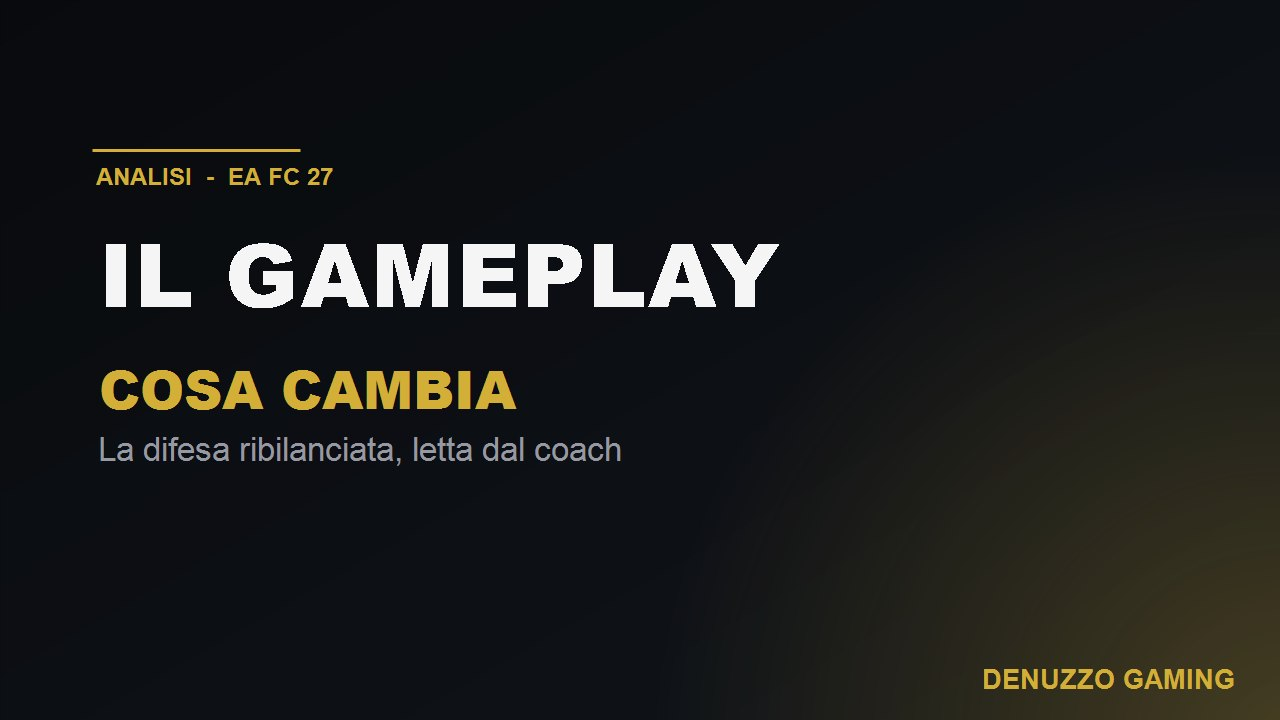
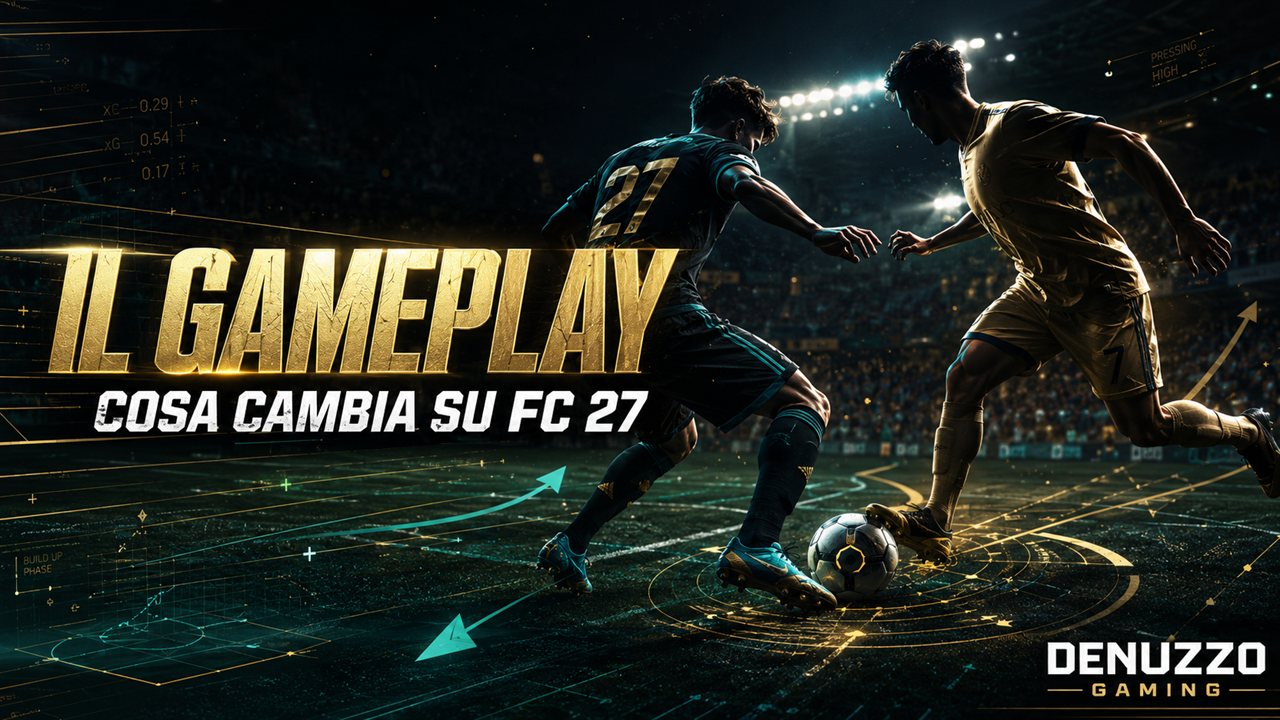
Add FC27 pricing opinion article + swap gameplay hero with branded art (IT/EN)

diff --git a/src/content/articles.ts b/src/content/articles.ts
@@ -30,6 +30,113 @@ export type Article = {
 
 export const articles: Article[] = [
   {
+    slug: "ea-fc-27-costa-troppo-prezzo-verita",
+    title: "EA FC 27 costa troppo? La verità sul prezzo e cosa NON comprare",
+    description:
+      "EA FC 27 costa troppo? Standard, Ultimate e Ultimate+ a confronto, i FC Points spiegati senza giri di parole e il consiglio onesto del coach su cosa comprare davvero.",
+    category: "Opinione",
+    date: "2026-07-25",
+    dateLabel: "25 Luglio 2026",
+    readingTime: "4 min",
+    badge: "OPINIONE",
+    heroImage: "/img/articles/ea-fc-27-costa-troppo-prezzo-verita-hero.jpg",
+    heroAlt:
+      "EA FC 27 costa troppo? L'opinione del coach Fabio Denuzzo su edizioni, prezzo e FC Points",
+    excerpt:
+      "Standard, Ultimate o Ultimate+? Ti dico cosa paghi davvero su EA FC 27, perché i FC Points sono la parte discutibile e cosa NON comprare. Da coach, non da venditore.",
+    body: `Parliamoci chiaro. Ogni anno esce il gioco nuovo, ogni anno si parla di prezzo, e ogni anno c'è chi ti spinge a comprare l'edizione più cara. Io faccio il coach, non il venditore: ti dico cosa paghi davvero su EA FC 27 e cosa, secondo me, non vale i tuoi soldi.
+
+## Quanto costa (le cifre)
+
+- **Standard:** intorno ai 70-80€.
+- **Ultimate:** intorno ai 100€.
+- **Ultimate+** (la nuova, con Mbappé e Bellingham): la più cara, in vendita solo fino al 31 agosto.
+
+I prezzi esatti possono cambiare per piattaforma e regione, ma l'ordine di grandezza è questo.
+
+## Il gioco base è caro, ma di mercato
+
+70-80€ è ormai il prezzo dei giochi AAA. Caro, sì, ma è lo standard del settore. Se giochi tutto l'anno, il costo per ora di divertimento è bassissimo. Fin qui niente di scandaloso: paghi un gioco, giochi un gioco.
+
+## Il problema vero: cosa paghi nell'Ultimate
+
+Quando sali di edizione, l'extra è fatto soprattutto di **FC Points**, cioè crediti per aprire pacchetti. E qui devo essere onesto con te:
+
+- **I pacchetti sono fortuna.** Non stai comprando giocatori, stai comprando la possibilità di trovarli.
+- L'unico valore concreto e **garantito** del sovrapprezzo è l'**early access** di 7-8 giorni. Punto.
+- Il resto (Premium Pass, icon pack) è contorno che ripaghi solo se giochi tantissimo.
+
+Detto senza giri: nell'Ultimate paghi soprattutto per **giocarti la fortuna dei pacchetti**. Questa è la parte del prezzo che trovo davvero discutibile.
+
+## Il costo che nessuno nomina: l'azzeramento annuale
+
+C'è un costo nascosto in tutto questo: è un gioco **annuale**. Paghi pieno ogni settembre e a settembre riparti da zero. La squadra che costruisci quest'anno non te la porti dietro. Su questo, chi dice "troppo" ha ragione.
+
+## Cosa consiglio io (senza fronzoli)
+
+- **Standard: per quasi tutti.** Se non spendi in pacchetti tutto l'anno, è la scelta giusta.
+- **Ultimate: solo se l'early access ti serve davvero** (competitivo serio, trading iniziale). In quel caso vale l'extra, ma per la settimana di anticipo, non per i pacchetti.
+- **Ultimate+: solo se sei uno che spende comunque parecchio** durante l'anno. Per tutti gli altri sono soldi buttati.
+- E soprattutto: **non farti trascinare dall'hype pre-lancio.** Copertine e trailer emozionano, ma non ti fanno vincere le partite.
+
+## In sintesi
+
+EA FC 27 non è una truffa, ma il modo in cui sono costruite le edizioni costose ti spinge a spendere sui pacchetti, e quello sì lo trovo esagerato. Il mio consiglio da coach: **paga il gioco, non la fortuna.** Tieni i crediti, allena i fondamentali, e a settembre parti avanti a chi ha svuotato il portafoglio.
+
+Per i dettagli edizione per edizione: [quale edizione di FC 27 comprare](/newsletter/conviene-comprare-ea-fc-27-edizioni-prezzi). E per arrivare pronto: [come prepararti a FC 27](/newsletter/come-prepararti-a-ea-fc-27).`,
+    en: {
+      title: "Is EA FC 27 Too Expensive? The Truth About the Price and What NOT to Buy",
+      description:
+        "Is EA FC 27 too expensive? Standard, Ultimate and Ultimate+ compared, FC Points explained without spin, and the coach's honest advice on what to actually buy.",
+      category: "Opinion",
+      dateLabel: "July 25, 2026",
+      heroAlt:
+        "Is EA FC 27 too expensive? Coach Fabio Denuzzo's take on editions, price and FC Points",
+      excerpt:
+        "Standard, Ultimate or Ultimate+? I tell you what you actually pay for on EA FC 27, why FC Points are the questionable part, and what NOT to buy. As a coach, not a seller.",
+      body: `Let us be clear. Every year the new game drops, every year people argue about the price, and every year someone pushes you to buy the most expensive edition. I am a coach, not a seller: I will tell you what you actually pay for on EA FC 27 and what, in my view, is not worth your money.
+
+## How much it costs (the numbers)
+
+- **Standard:** around 70-80€.
+- **Ultimate:** around 100€.
+- **Ultimate+** (the new one, with Mbappé and Bellingham): the priciest, on sale only until August 31.
+
+Exact prices can change by platform and region, but this is the ballpark.
+
+## The base game is pricey, but market rate
+
+70-80€ is now the standard AAA game price. Expensive, yes, but it is the industry norm. If you play all year, the cost per hour of fun is tiny. Nothing scandalous here: you pay for a game, you play a game.
+
+## The real issue: what you pay for in Ultimate
+
+When you move up an edition, the extra is mostly **FC Points**, meaning currency to open packs. And here I have to be honest with you:
+
+- **Packs are luck.** You are not buying players, you are buying the chance to find them.
+- The only concrete, **guaranteed** value of the premium is the **early access** of 7-8 days. That is it.
+- The rest (Premium Pass, icon pack) is a side dish you only recoup if you play a huge amount.
+
+Bluntly: in Ultimate you mostly pay to **gamble on pack luck**. That is the part of the price I find genuinely questionable.
+
+## The cost nobody mentions: the yearly reset
+
+There is a hidden cost in all this: it is an **annual** game. You pay full price every September and every September you start from zero. The squad you build this year does not carry over. On this, those who say "too much" have a point.
+
+## What I recommend (no fluff)
+
+- **Standard: for almost everyone.** If you do not spend on packs all year, it is the right pick.
+- **Ultimate: only if you genuinely need the early access** (serious competitive, early trading). Then it is worth the extra, but for the week head start, not for the packs.
+- **Ultimate+: only if you spend a lot anyway** during the year. For everyone else it is money wasted.
+- Above all: **do not get swept up by the pre-launch hype.** Covers and trailers are exciting, but they do not win you games.
+
+## In short
+
+EA FC 27 is not a scam, but the way the expensive editions are built pushes you to spend on packs, and that part I do find excessive. My coach's advice: **pay for the game, not for the luck.** Keep your coins, train the fundamentals, and in September you start ahead of those who emptied their wallet.
+
+For the edition-by-edition details: [which FC 27 edition to buy](/en/newsletter/conviene-comprare-ea-fc-27-edizioni-prezzi). And to get ready: [how to prepare for FC 27](/en/newsletter/come-prepararti-a-ea-fc-27).`,
+    },
+  },
+  {
     slug: "ea-fc-27-gameplay-come-cambia-difesa",
     title: "EA FC 27, come cambia il gameplay: la difesa ribilanciata e cosa dovrai reimparare",
     description:
